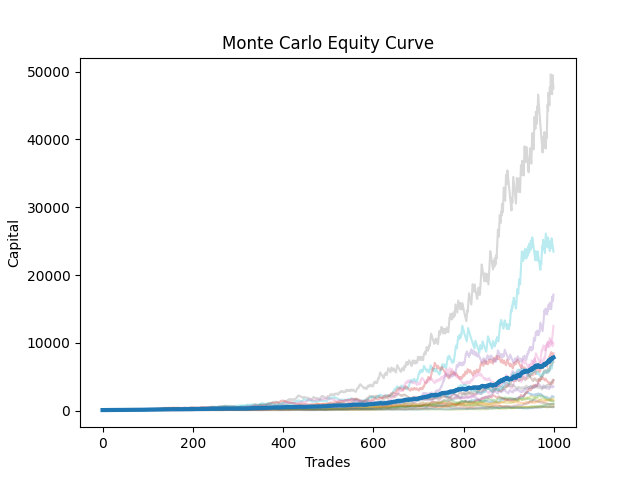
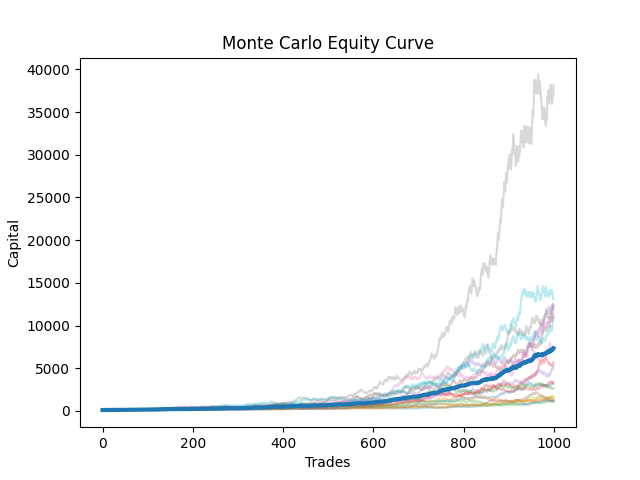
add pro risk filter and scoring system

diff --git a/backtests/experiments/test_strategy.py b/backtests/experiments/test_strategy.py
@@ -98,8 +98,8 @@ def simulate(capital_initial, risk_percent, n_trade, winrate_percent, r_multiple
 def main():
     capital_initial = 100
     n_trade = 1000
-    winrate_percent = 30
-    r_multiple = 3
+    winrate_percent = 40
+    r_multiple = 2
     plt.figure()
     n_runs = 20
     summary_results = []
@@ -188,14 +188,20 @@ def main():
         for threshold in ruin_thresholds:
             ruined = sum(1 for c in final_capitals if c <= threshold)
             ruin_probability = ruined / len(final_capitals)
-        
+            
+            if avg_dd > 30:
+                score = -9999
+            else:
+                score = avg_final - (avg_dd * 40) - (ruin_probability * 1000)
+
         summary_results.append({
             "risk": risk_percent,
             "avg_final": avg_final,
             "median_final": median_final,
             "avg_dd": avg_dd,
             "worst_dd": worst_dd_seen,
-            "ruin_prob": ruin_probability
+            "ruin_prob": ruin_probability,
+            "score": score
         })
 
         plt.title("Monte Carlo Equity Curve")
